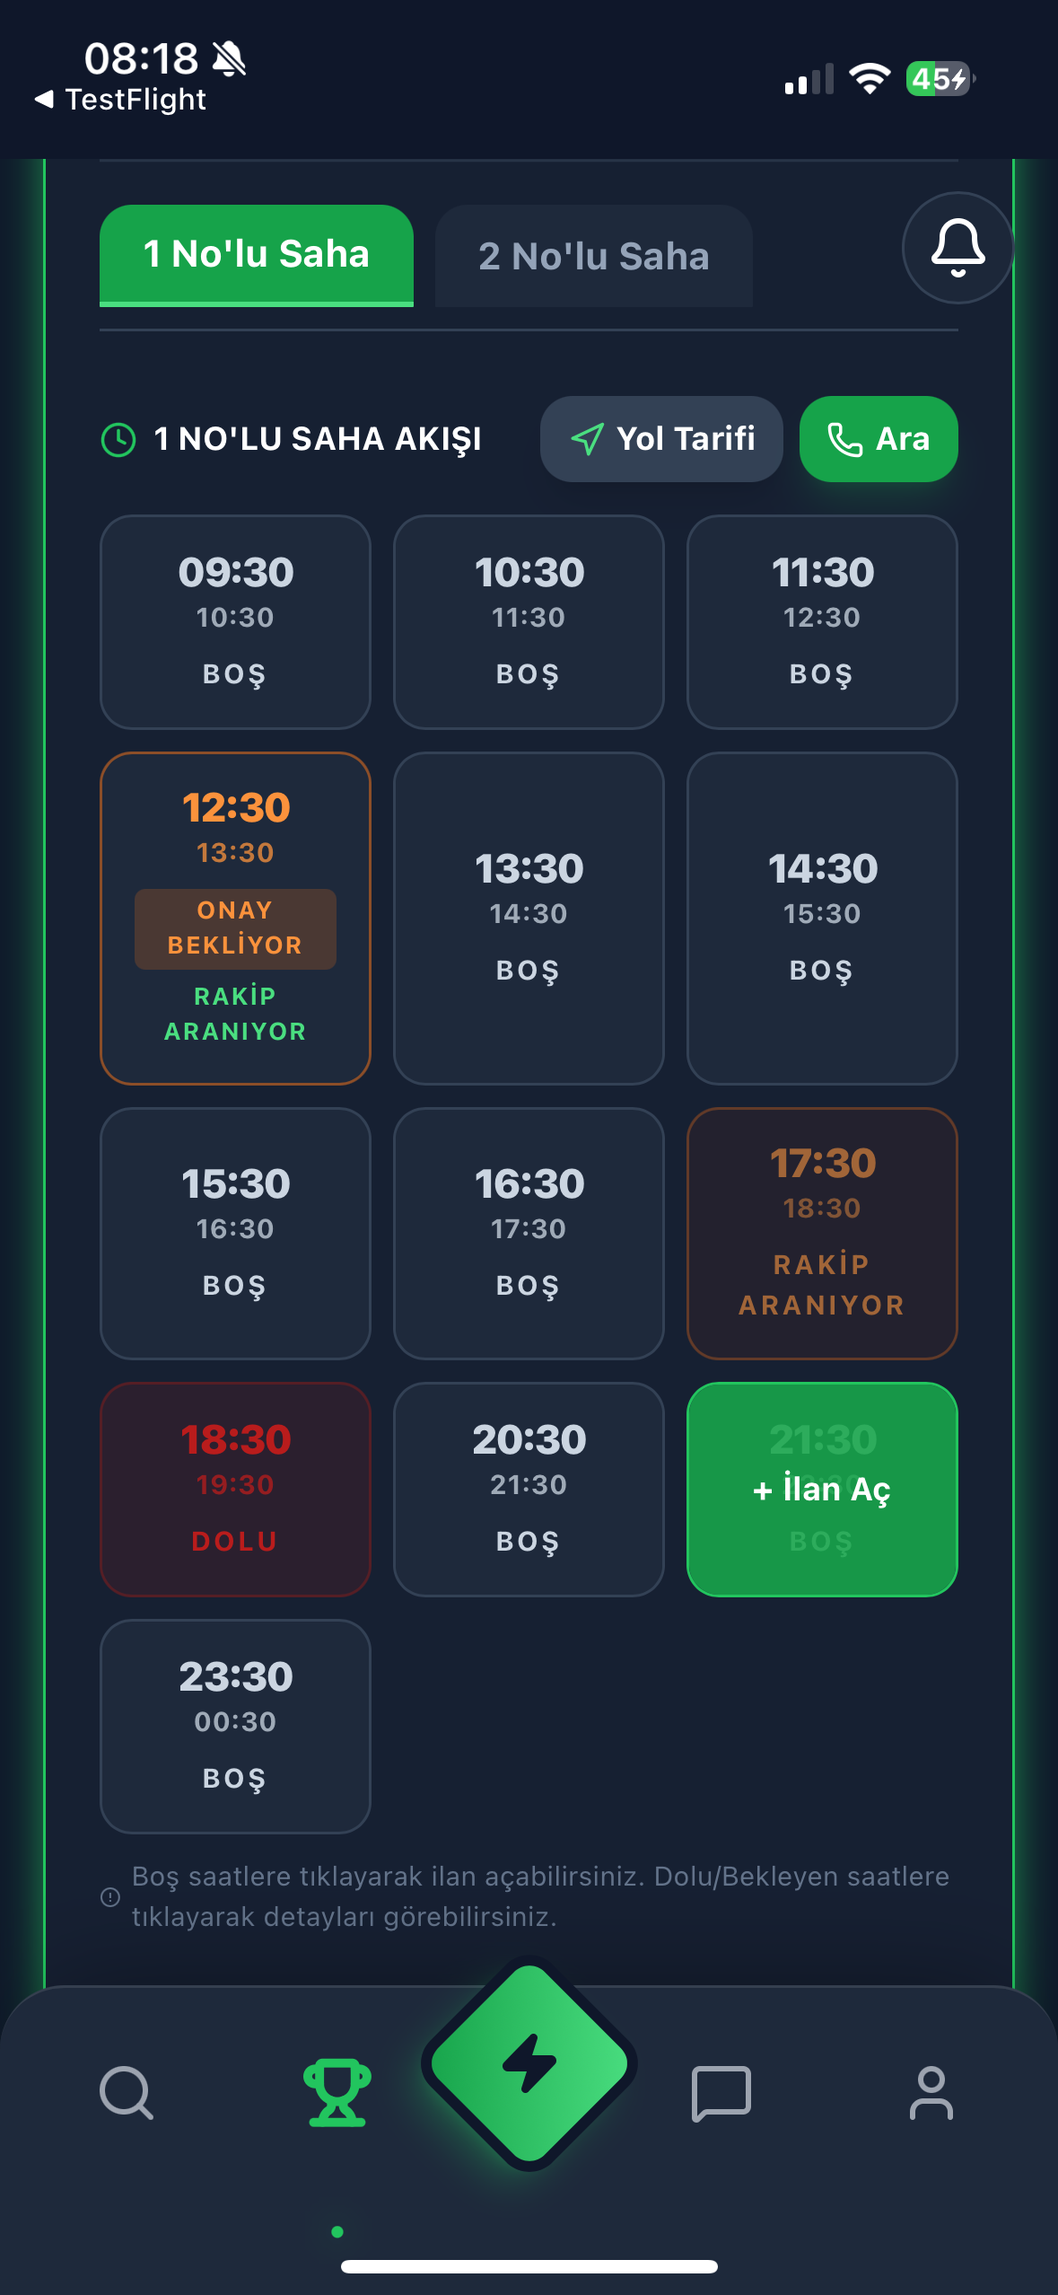
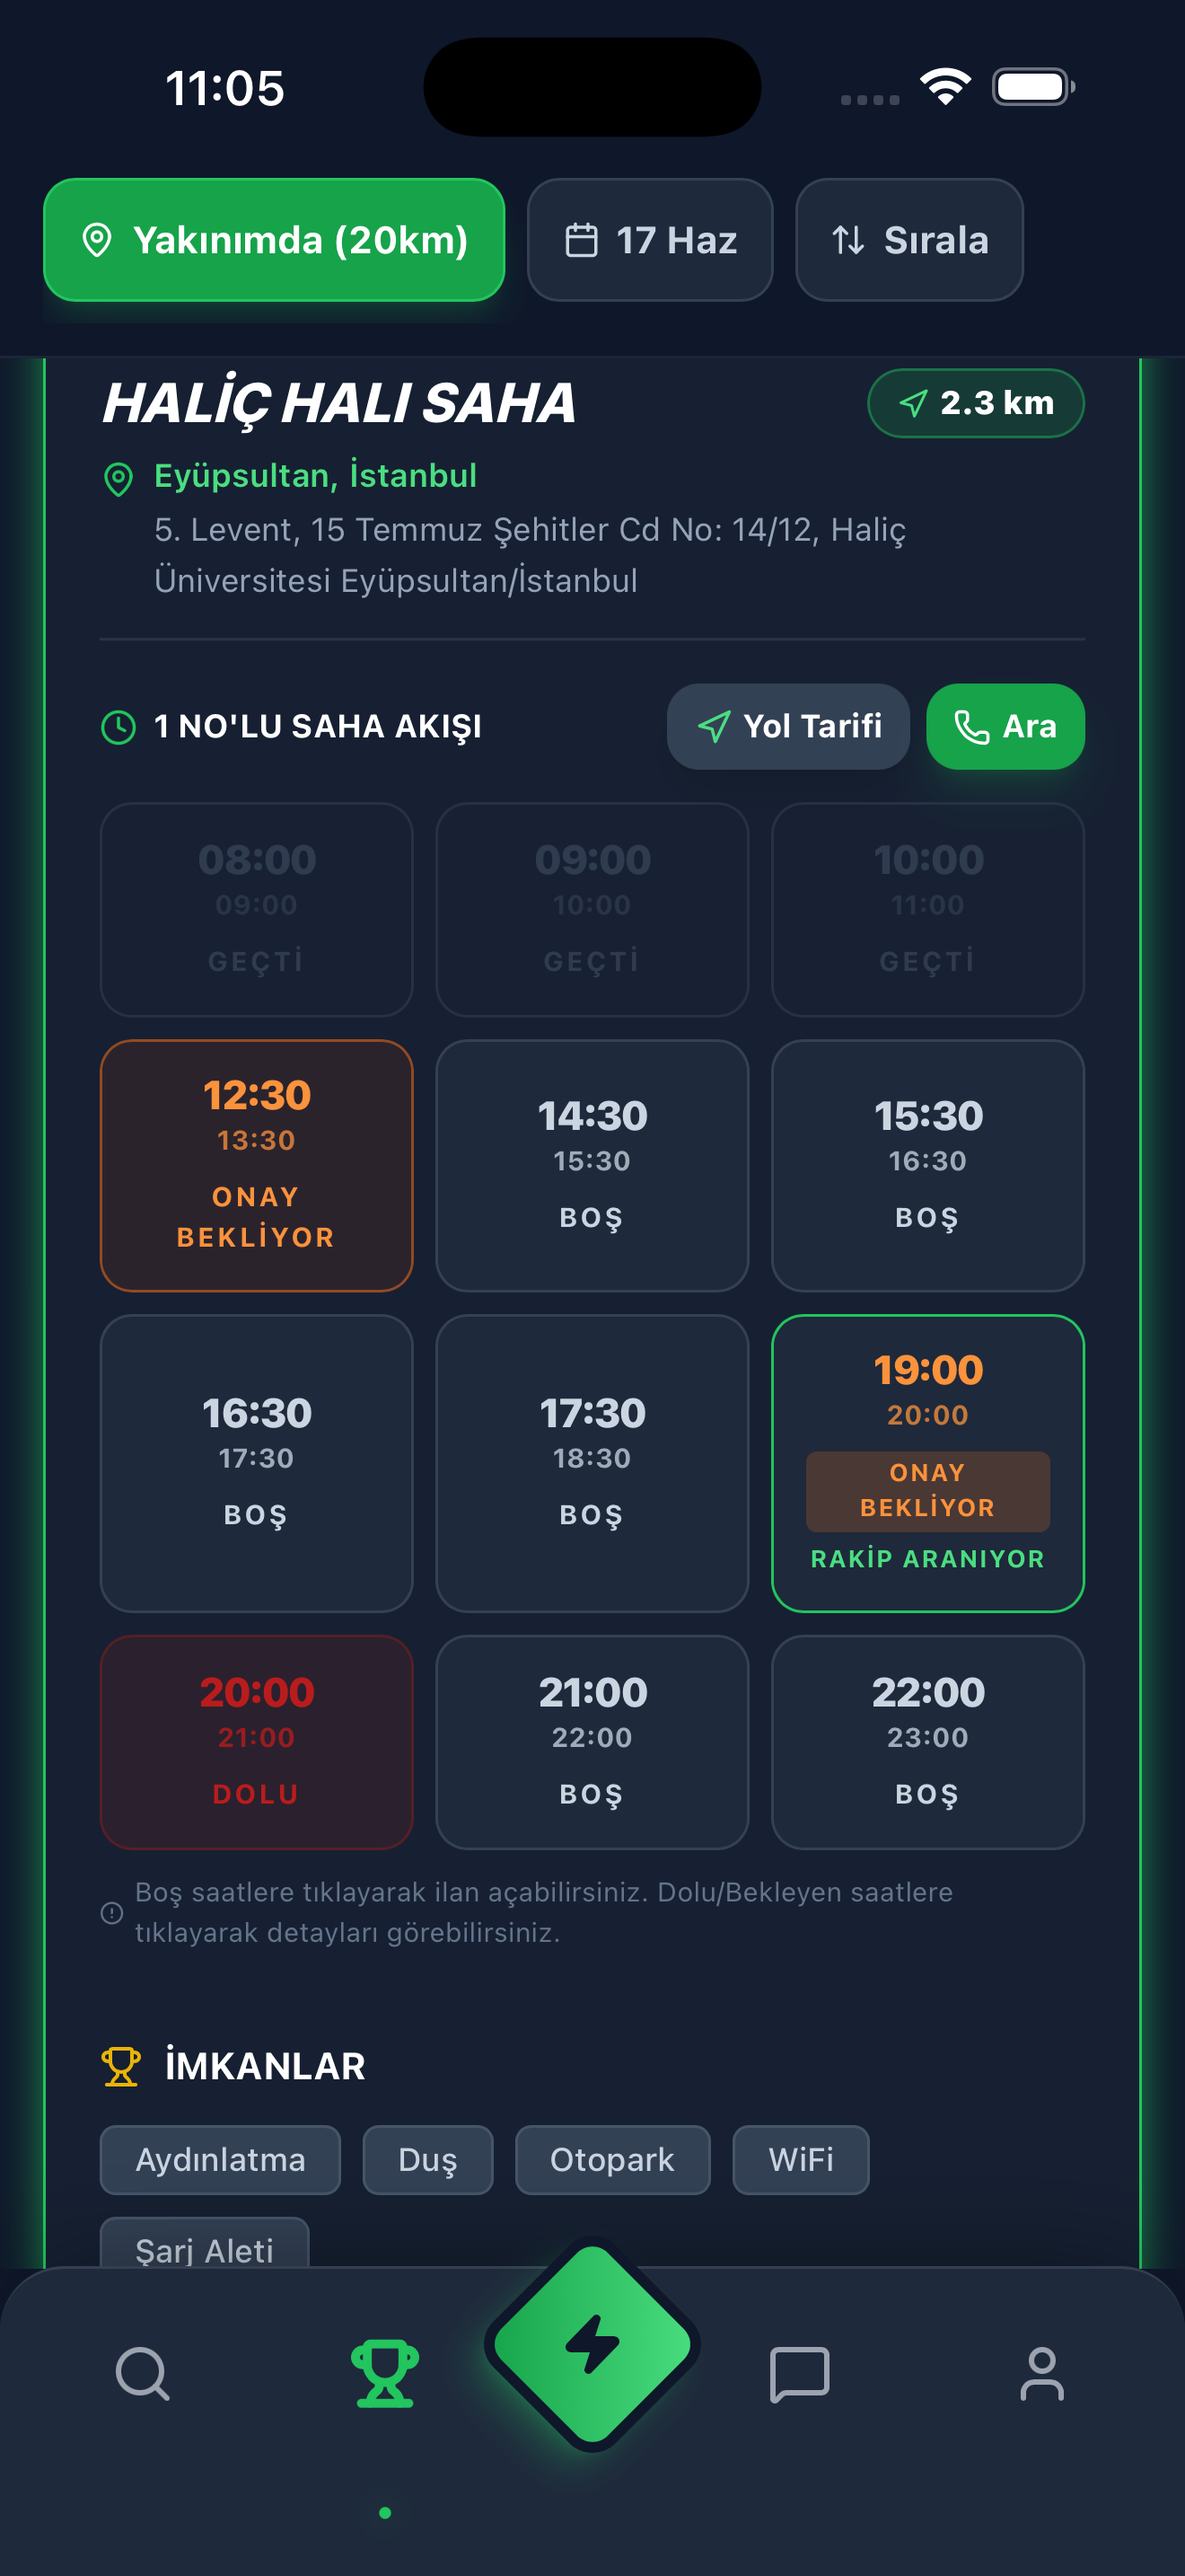
düzeltme: PhoneCarousel görsel isimlendirmesi güncellendi ve eksik ekran görüntüleri eklendi

diff --git a/components/PhoneCarousel.tsx b/components/PhoneCarousel.tsx
@@ -7,7 +7,7 @@ const ITEMS = [
   { src: "/screenshots/rezervasyon.png",   label: "Rezervasyon",        desc: "Müsait saatleri gör, kolayca rezerve et" },
   { src: "/screenshots/joker_havuzu.png",  label: "Joker Havuzu",       desc: "Eksik oyuncu derdine son, joker bul" },
   { src: "/screenshots/sohbet_kesinlesti.png", label: "Takım Sohbeti",  desc: "Maç durumunu takımınla anlık paylaş" },
-  { src: "/screenshots/sohbet_karsilasma.png", label: "Rakiple İletişim", desc: "Rakip takımla detayları netleştir" },
+  { src: "/screenshots/rakiple_iletisim.png", label: "Rakiple İletişim", desc: "Rakip takımla detayları netleştir" },
   { src: "/screenshots/mac_degerlendirme.png", label: "Tesis Değerlendirme", desc: "Oynadığın sahayı puanla" },
   { src: "/screenshots/rakip_degerlendirme.png", label: "Rakip Değerlendirme", desc: "Rakip takımın fair play puanını ver" },
 ];
